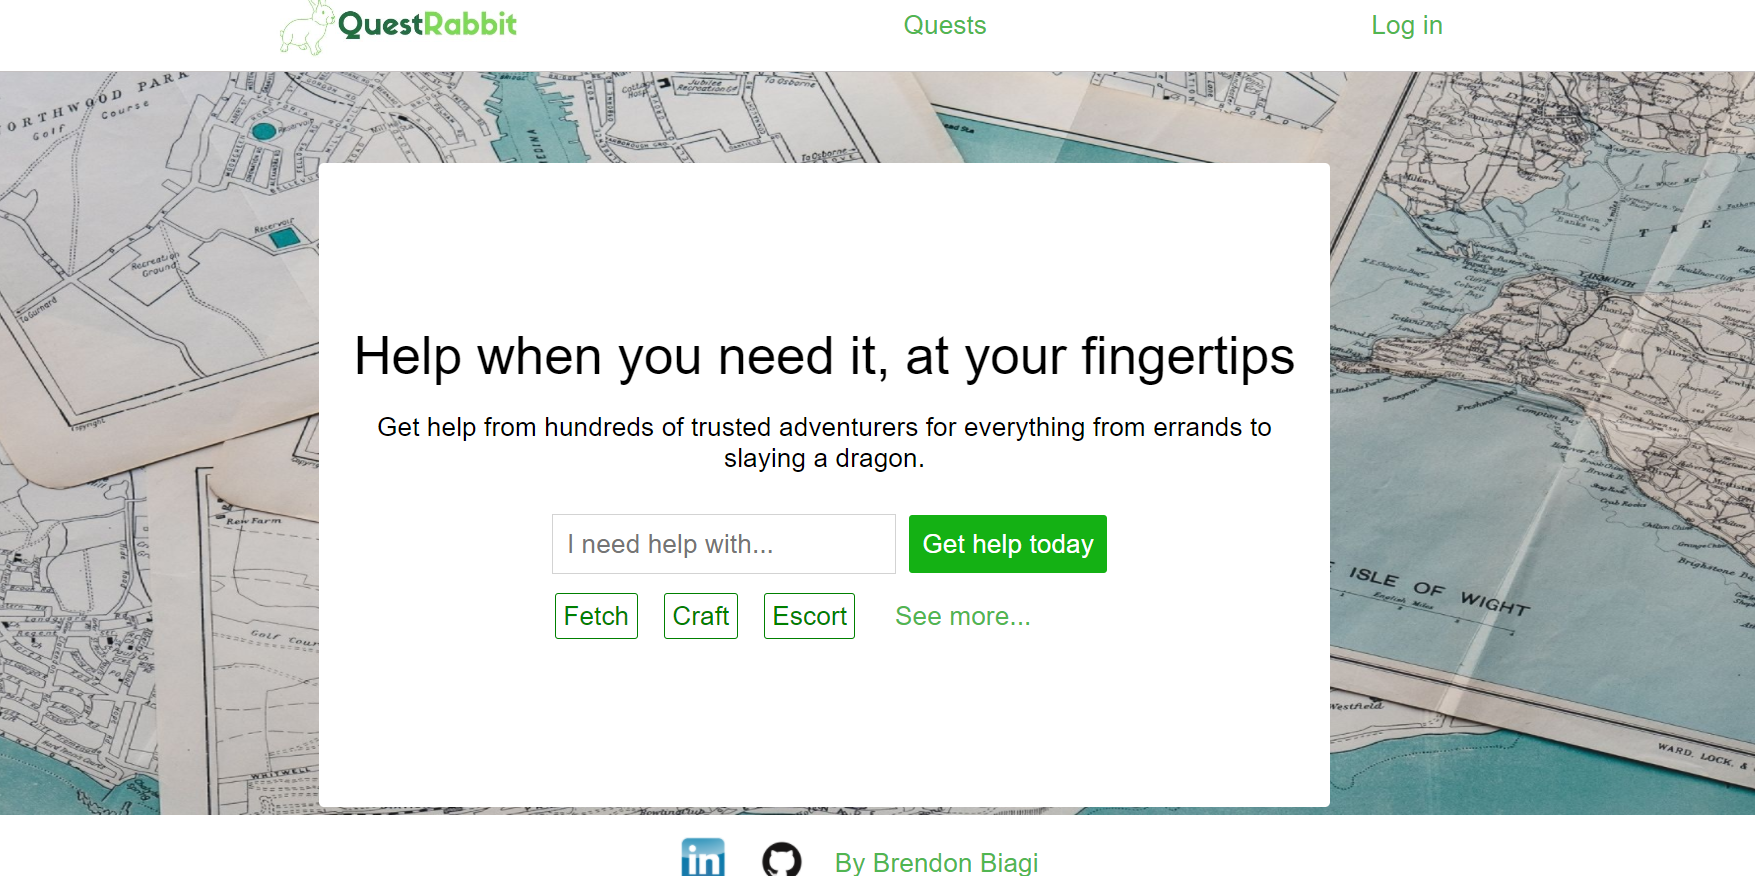
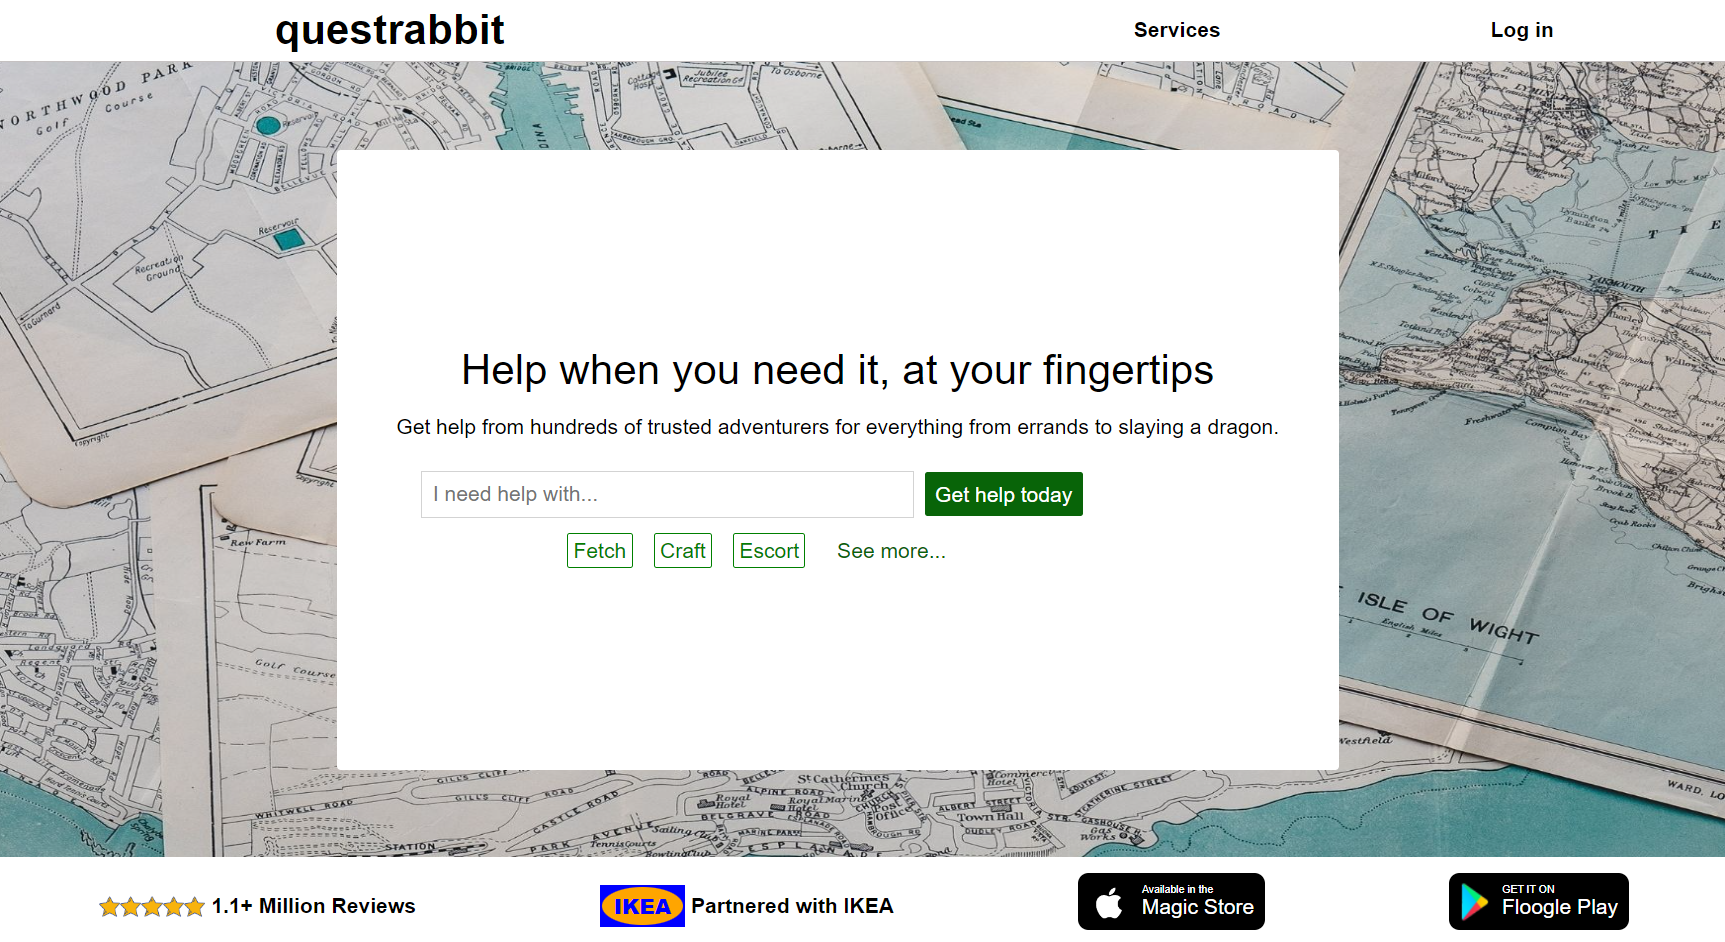
update QuestRabbit image

diff --git a/style.css b/style.css
@@ -238,12 +238,13 @@ strong {
     border-radius: .5rem;
     border: transparent;
     color: white;
-    font-weight: 900;
+    font-weight: 700;
 }
 
 .nav-s{
     height:2.5rem;
     font-size: 1rem;
+    font-weight: 500;
 }
 
 .nav:hover{
